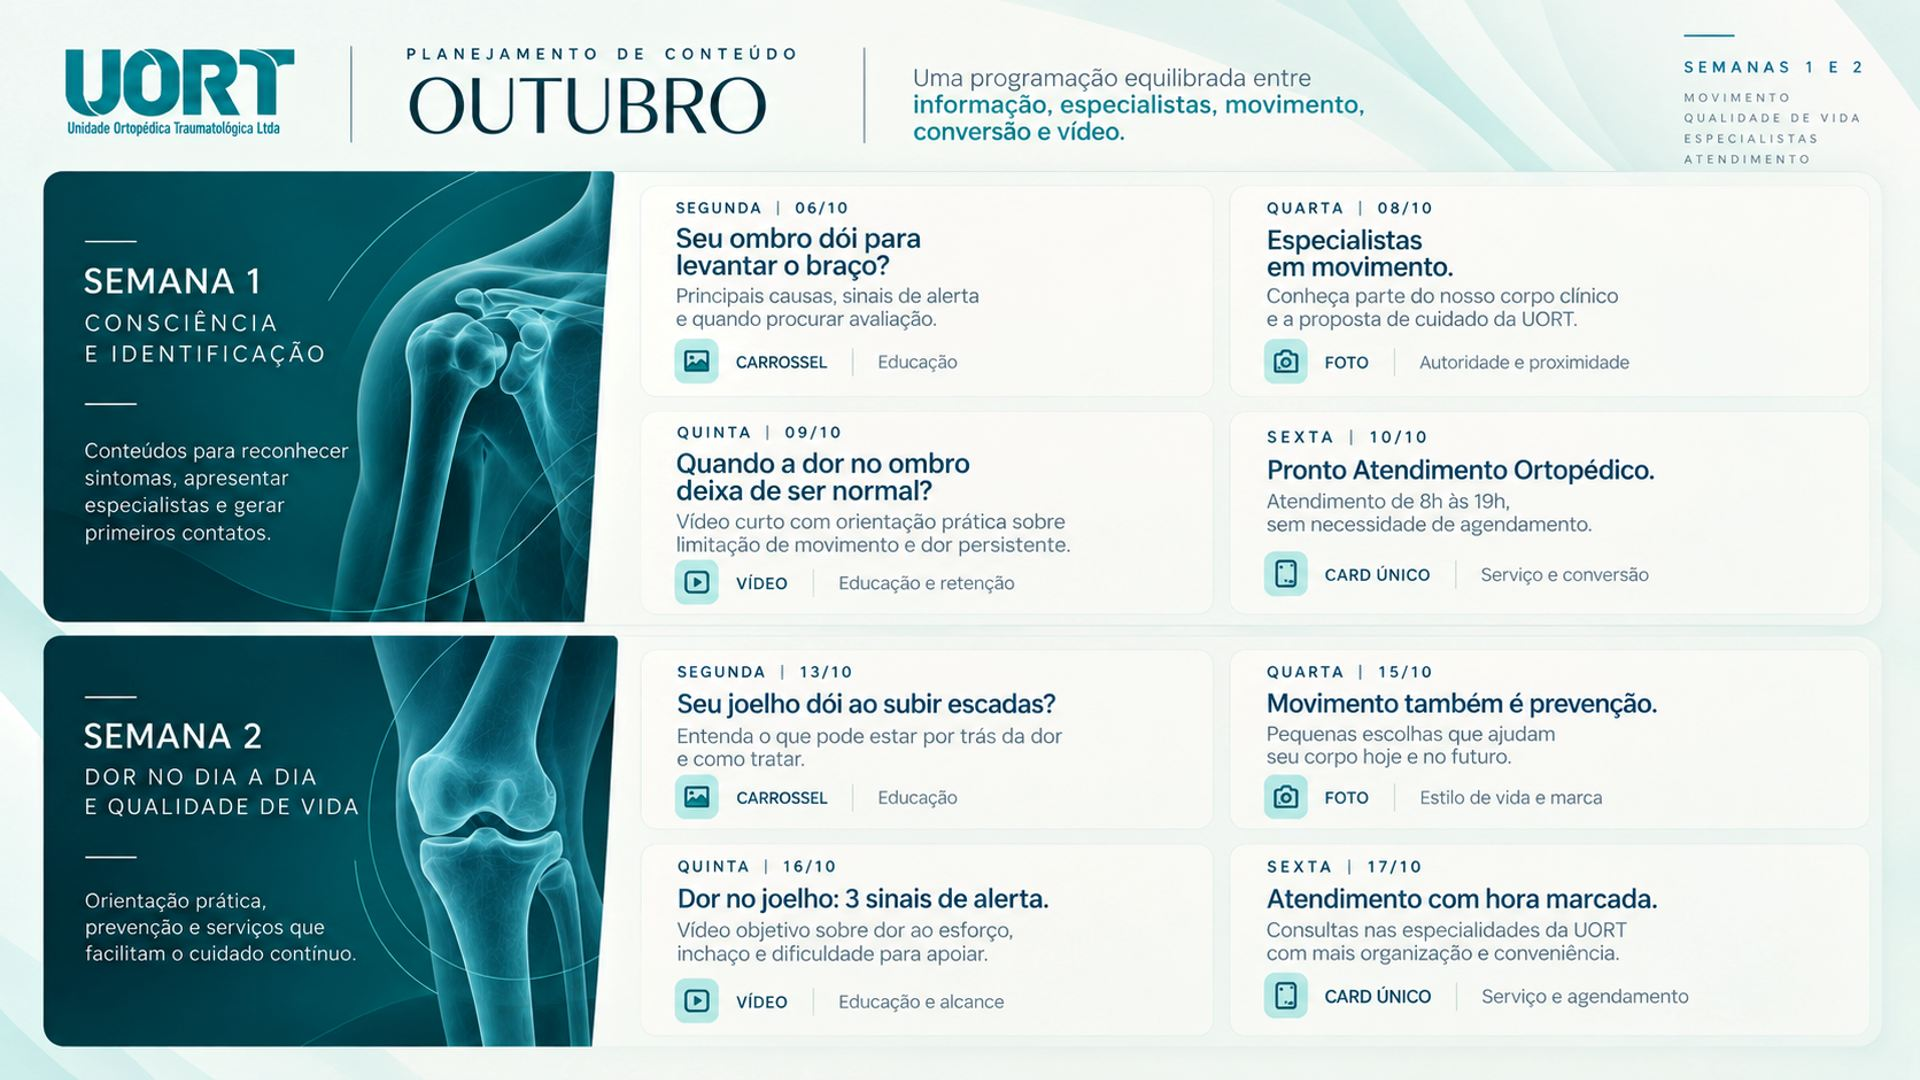
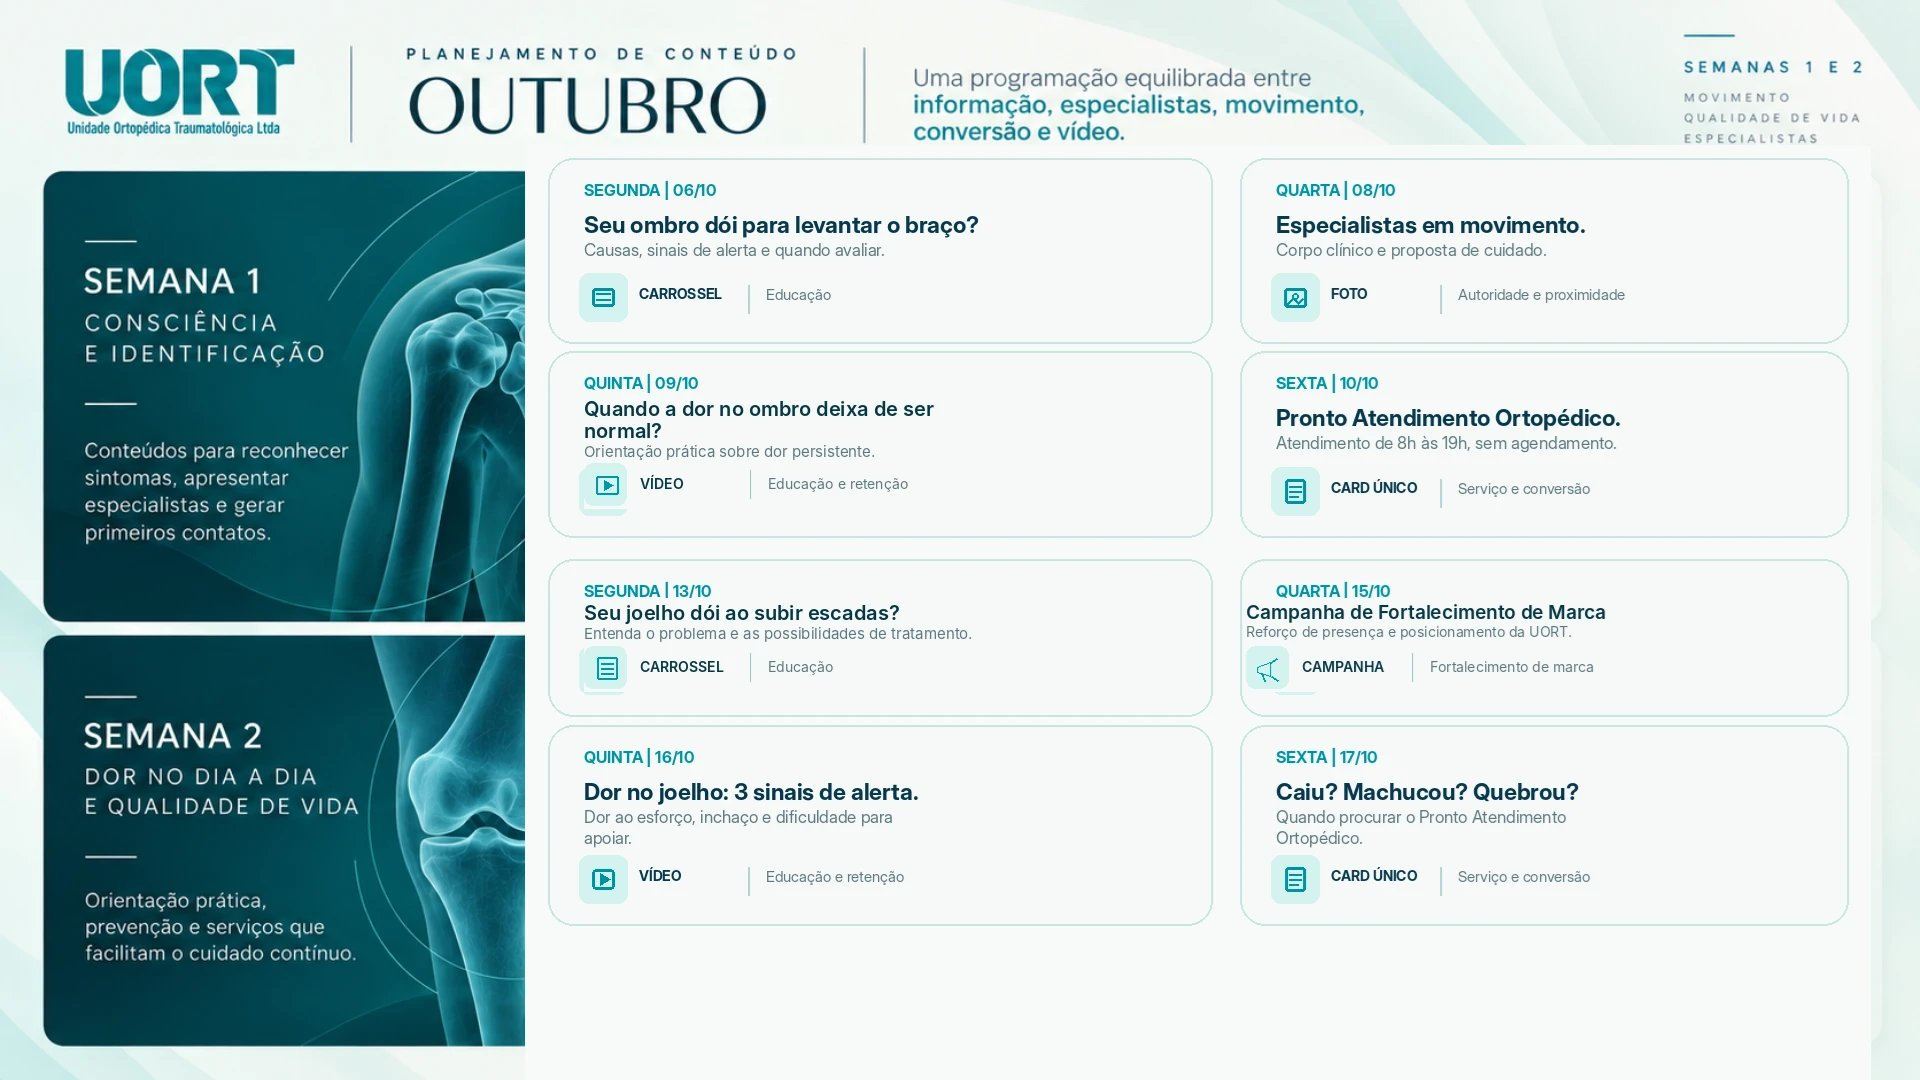
Novo calendário de outubro: semanas 1 e 2 (lâmina 45)

diff --git a/js/data.js b/js/data.js
@@ -64,7 +64,7 @@ window.DECK = {
     42: { t: 'Materiais B2B', d: 'Materiais para empresas, saúde ocupacional e apresentações comerciais: a publicidade atrai o indivíduo; o B2B aproxima empresas e amplia oportunidades de volume.', key: true, k: 'empresas rh saúde ocupacional convênios' },
     43: { t: 'Google Business Profile', d: 'O paciente de trauma não pesquisa em redes: ele decide em minutos pelo celular. Como funciona: 01 o paciente pesquisa no Google (“ortopedista perto de mim”, “pronto atendimento ortopédico”) · 02 a unidade aparece com fotos, avaliação, horário e endereço · 03 ele decide e entra em contato. O perfil coloca a UORT na frente de quem já está pronto para ser atendido.', key: true, k: 'google maps busca perfil local pronto atendimento' },
     44: { t: 'Planejamento de Conteúdo', d: 'Abertura do capítulo de planejamento de conteúdo.', divider: true },
-    45: { t: 'Outubro · Semanas 1 e 2', d: 'Semana 1: consciência e identificação (ombro, especialistas, pronto atendimento). Semana 2: dor no dia a dia e qualidade de vida (joelho, prevenção, hora marcada).', key: true, k: 'calendário editorial outubro posts' },
+    45: { t: 'Outubro · Semanas 1 e 2', d: 'Semana 1: consciência e identificação — ombro, especialistas em movimento e Pronto Atendimento Ortopédico (8h às 19h, sem agendamento). Semana 2: dor no dia a dia e qualidade de vida — joelho, Campanha de Fortalecimento de Marca e “Caiu? Machucou? Quebrou?”.', key: true, k: 'calendário editorial outubro posts' },
     46: { t: 'Outubro · Semanas 3 e 4', d: 'Semana 3: coluna, rotina e orientação. Semana 4: movimento em todas as fases da vida, com tour pela UORT e o Caminho das Árvores.', k: 'calendário editorial outubro posts' },
     47: { t: 'Mídia Online', d: 'Abertura do capítulo de mídia online.', divider: true },
     48: { t: 'Mídia Online: Google Ads + Meta Ads', d: 'Google Ads: R$ 5.000/mês para captar pacientes com intenção de busca. Meta Ads: R$ 2.500/mês para fortalecer a marca e alcançar novos públicos. Investimento total: R$ 7.500/mês.', key: true, k: 'investimento verba orçamento preço valor anúncios' },
